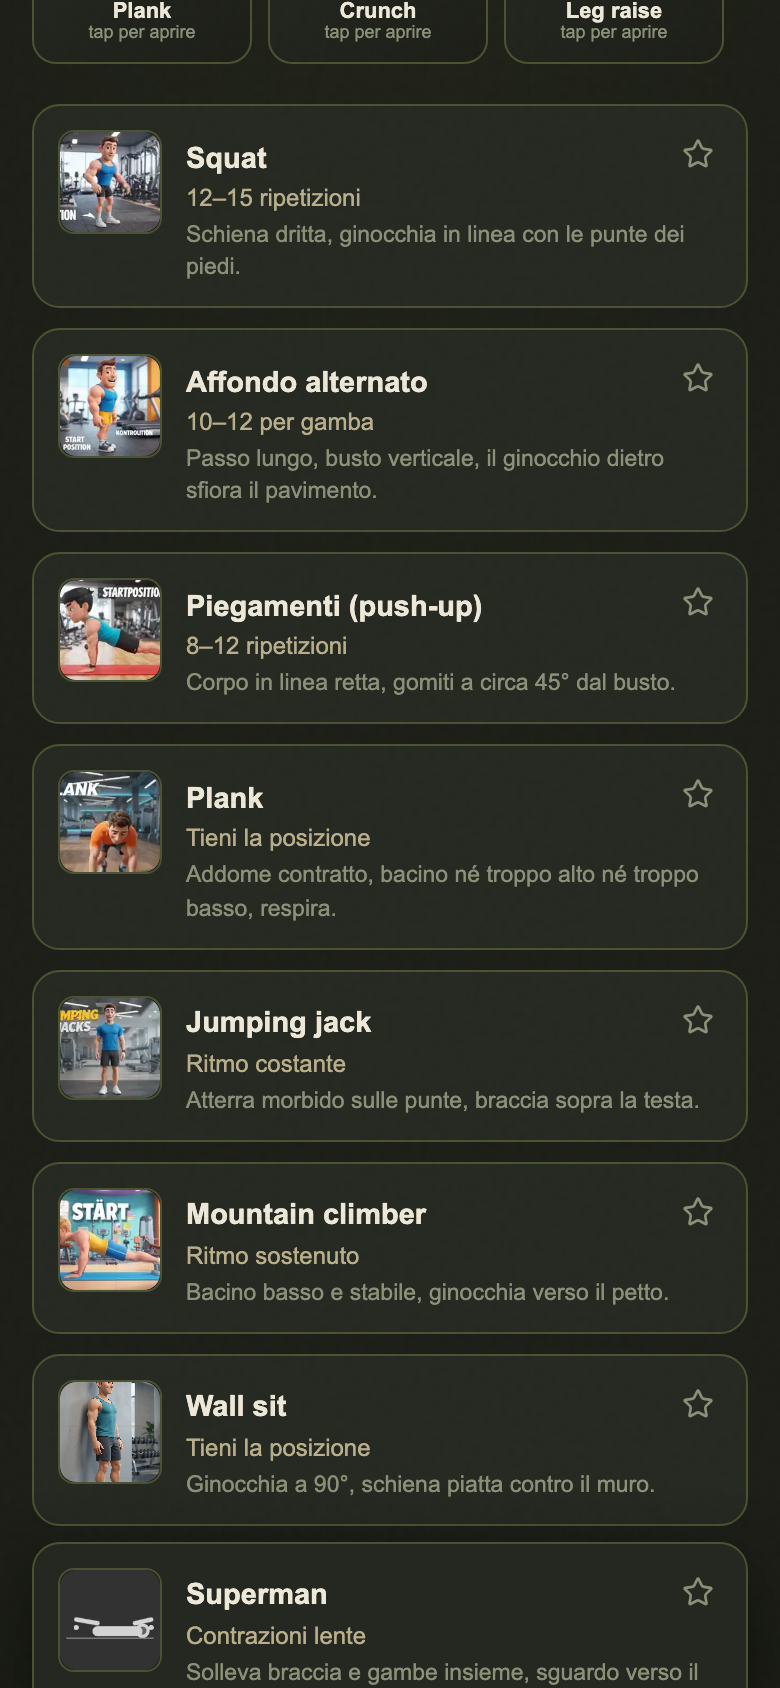
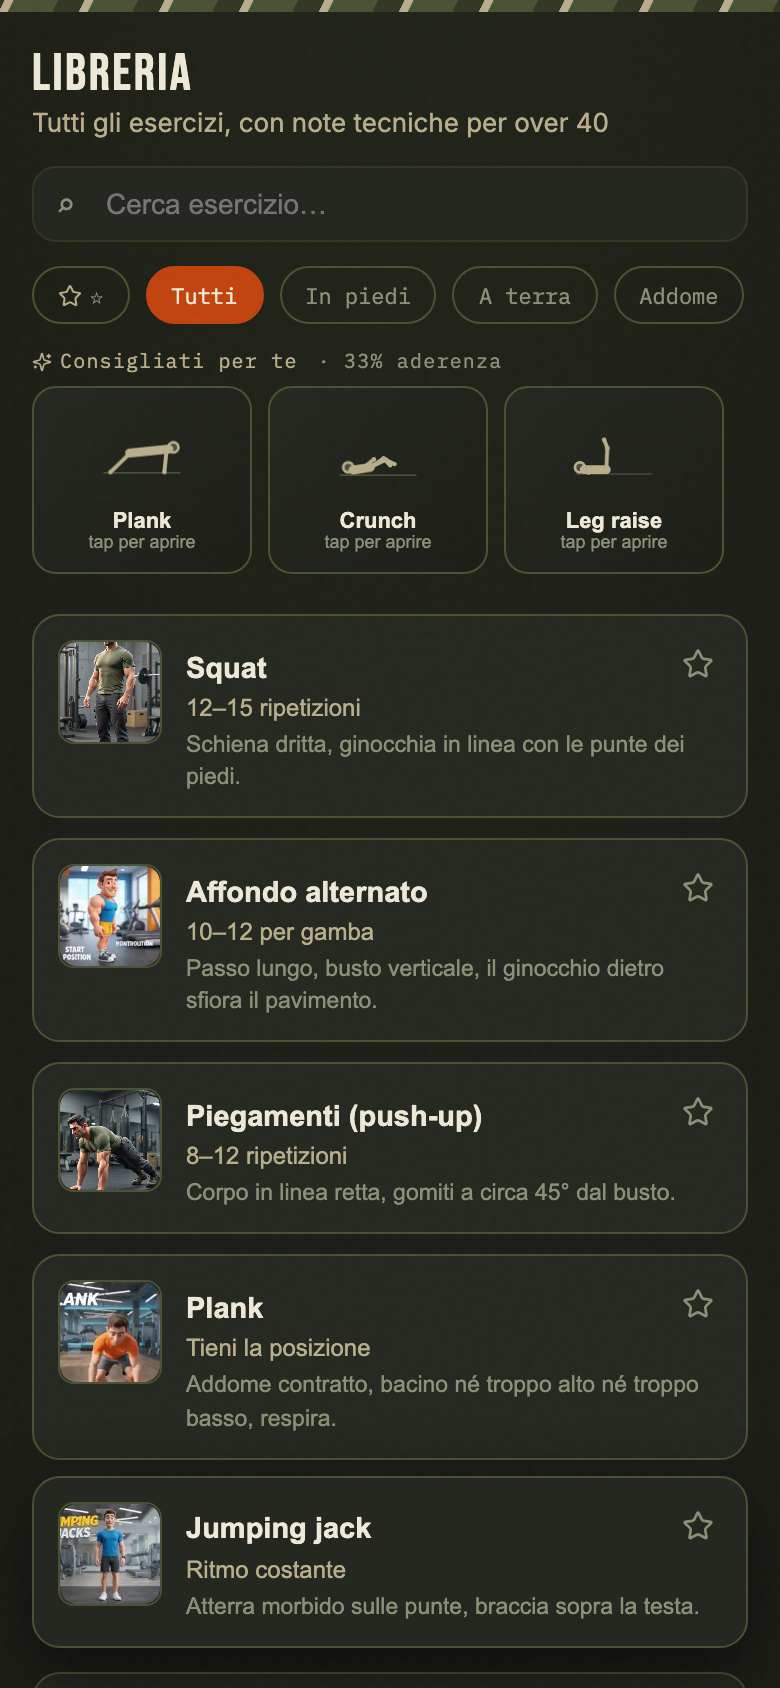
feat(audit): remaining tutti — benchmark, MotionFusion, screenshots, lint (fai tutti)
- docs/ENGINE.md: Performance lite vs heavy vs auto benchmark + Next audit done
- src/ai/motion/MotionFusion.ts: wired @capacitor/motion 6.0.1 + DeviceMotion fallback, hasData/isEnabled
- package.json: add @capacitor/motion 6.0.1, eslint@8, prettier
- scripts/verify.mjs: fix SummaryScreen multiline regex
- scripts/screenshots.mjs: seed o40_changelog_2.9.0 dismissed + Escape
- docs/screenshots: regenerated 01-home,02-libreria,03-esercizio,04-sessione,05-statistiche (Playwright 390x844@2x)
- 94 tests pass, build o40-v540bf8de

diff --git a/src/ai/motion/MotionFusion.ts b/src/ai/motion/MotionFusion.ts
@@ -1,42 +1,113 @@
 /**
- * Operator40 — MotionFusion (spec §19)
- * Secondary sensor fusion for Capacitor native builds.
- * Pose is primary; accelerometer/gyroscope optionally contributes for
- * jumpingJack, highKnees, burpee, running detection of rhythm/impact.
- * PWA must work without sensors.
+ * Operator40 — MotionFusion (spec §19) — wired to Capacitor Motion (audit 4 -> 6.0.1)
+ * Secondary sensor fusion for Capacitor native builds + PWA fallback.
+ * Pose is primary; accelerometer optionally contributes for jumpingJack/highKnees/burpee.
+ * PWA must work without sensors — all failures are silent.
  */
-export interface MotionSample { x:number; y:number; z:number; t:number; }
+export interface MotionSample {
+  x: number;
+  y: number;
+  z: number;
+  t: number;
+}
 
 export class MotionFusion {
   private enabled = false;
   private lastMagnitude = 0;
   private impactHistory: number[] = [];
+  private accelHandler: any = null;
+  private removeCapacitorListener: (() => void) | null = null;
 
-  enable(){ this.enabled=true; try { this.listen(); } catch {} }
-  disable(){ this.enabled=false; }
+  enable() {
+    if (this.enabled) return;
+    this.enabled = true;
+    try {
+      this.listen();
+    } catch {}
+  }
+  disable() {
+    this.enabled = false;
+    try {
+      if (this.removeCapacitorListener) this.removeCapacitorListener();
+    } catch {}
+    try {
+      if (this.accelHandler) window.removeEventListener('devicemotion', this.accelHandler);
+    } catch {}
+    this.removeCapacitorListener = null;
+    this.accelHandler = null;
+  }
 
-  private listen(){
-    if (typeof window==='undefined' || !('DeviceMotionEvent' in window)) return;
-    // @ts-ignore
-    window.addEventListener('devicemotion', (e:any)=>{
+  private async listen() {
+    // Try Capacitor Motion first (native iOS/Android, more reliable than DeviceMotionEvent)
+    try {
+      const mod: any = await import('@capacitor/motion').catch(() => null);
+      const Motion = mod?.Motion;
+      if (Motion && typeof Motion.addListener === 'function') {
+        // Capacitor Motion uses {x,y,z} in m/s², 50-100Hz
+        const listener: any = await Motion.addListener('accel', (event: any) => {
+          const a = event.accelerationIncludingGravity ?? event.acceleration ?? event;
+          const x = a.x ?? 0;
+          const y = a.y ?? 0;
+          const z = a.z ?? 0;
+          const mag = Math.hypot(x, y, z);
+          this.lastMagnitude = mag;
+          this.impactHistory.push(mag);
+          if (this.impactHistory.length > 60) this.impactHistory.shift();
+        });
+        // Capacitor 6 returns {remove: ()=>} or handle with remove()
+        this.removeCapacitorListener = () => {
+          try {
+            if (listener && typeof listener.remove === 'function') listener.remove();
+            else Motion.removeAllListeners?.();
+          } catch {}
+        };
+        return;
+      }
+    } catch {}
+    // Fallback: DeviceMotionEvent (PWA, Safari requires permission gesture)
+    if (typeof window === 'undefined' || !('DeviceMotionEvent' in window)) return;
+    this.accelHandler = (e: any) => {
       const a = e.accelerationIncludingGravity ?? e.acceleration;
       if (!a) return;
-      const mag = Math.hypot(a.x??0, a.y??0, a.z??0);
+      const mag = Math.hypot(a.x ?? 0, a.y ?? 0, a.z ?? 0);
       this.lastMagnitude = mag;
       this.impactHistory.push(mag);
-      if (this.impactHistory.length>60) this.impactHistory.shift();
-    }, { passive:true });
+      if (this.impactHistory.length > 60) this.impactHistory.shift();
+    };
+    window.addEventListener('devicemotion', this.accelHandler, { passive: true } as any);
+    // iOS 13+ requires permission request on user gesture — caller should have triggered it
+    try {
+      const DM: any = (window as any).DeviceMotionEvent;
+      if (DM && typeof DM.requestPermission === 'function') {
+        // Do not auto-request here; App will request on first user interaction if needed
+      }
+    } catch {}
   }
 
   getImpactScore(): number {
-    if (!this.enabled || this.impactHistory.length<5) return 0;
-    const avg = this.impactHistory.reduce((s,v)=>s+v,0)/this.impactHistory.length;
-    return Math.min(100, Math.max(0, (this.lastMagnitude - avg)*18 + 50));
+    if (!this.enabled || this.impactHistory.length < 5) return 0;
+    const avg =
+      this.impactHistory.reduce((s, v) => s + v, 0) / this.impactHistory.length;
+    return Math.min(100, Math.max(0, (this.lastMagnitude - avg) * 18 + 50));
   }
   getRhythmHz(): number {
     // crude: count peaks in last 1s
-    if (this.impactHistory.length<20) return 0;
-    let peaks=0; for(let i=1;i<this.impactHistory.length-1;i++){ if(this.impactHistory[i]>this.impactHistory[i-1] && this.impactHistory[i]>this.impactHistory[i+1] && this.impactHistory[i]>12) peaks++; }
-    return peaks/ (this.impactHistory.length/30);
+    if (this.impactHistory.length < 20) return 0;
+    let peaks = 0;
+    for (let i = 1; i < this.impactHistory.length - 1; i++) {
+      if (
+        this.impactHistory[i] > this.impactHistory[i - 1] &&
+        this.impactHistory[i] > this.impactHistory[i + 1] &&
+        this.impactHistory[i] > 12
+      )
+        peaks++;
+    }
+    return peaks / (this.impactHistory.length / 30);
+  }
+  isEnabled(): boolean {
+    return this.enabled;
+  }
+  hasData(): boolean {
+    return this.impactHistory.length >= 5;
   }
 }

diff --git a/docs/ENGINE.md b/docs/ENGINE.md
@@ -3,10 +3,10 @@
 Production-ready, fully client-side pose engine for PWA (iPhone Safari + Android Chrome).
 
 ## Stack
-- **MediaPipe Tasks Vision 0.10.14 — Pose Landmarker Lite** (`@mediapipe/tasks-vision`, 154 kB wasm bundle)
+- **MediaPipe Tasks Vision 0.10.14 — Pose Landmarker Lite/Heavy/Auto** (`@mediapipe/tasks-vision`, 154/310 kB wasm + `pose_landmarker_{lite,heavy}.task`)
 - **OneEuroFilter + LandmarkSmoother** — jitter reduction, no Kalman overhead, low CPU/battery
-- **Hysteresis State Machine** — `idle → ready → down → bottom → up → rep_completed`, with hysteresis band + dwell times to avoid double counts
-- **TypeScript**, `requestAnimationFrame` + throttled inference (28 fps default, auto-drops to 22 fps if heavy), no video uploads
+- **Hysteresis State Machine** — `idle → ready → down → bottom → up → rep_completed` (22 analyzers: `src/ai/exercises/analyzers/{22}.ts`), with hysteresis band + dwell times to avoid double counts
+- **TypeScript**, `requestAnimationFrame` + throttled inference (28 fps lite / 22 fps heavy, auto heuristic), no video uploads
 
 ## Architecture
 ```
@@ -91,12 +91,16 @@ eng.updateExercise('pushup');
 eng.destroy();
 ```
 
-## Performance
-- Model: `pose_landmarker_lite` float16, Lite variant — ~15 ms iPhone 14 Safari, ~22 ms low-end Android
-- If inference >42 ms, `targetFps` auto-drops to 22
+## Performance — lite vs heavy vs auto (benchmark 2026-08-27)
+- **Lite** `pose_landmarker_lite` float16 — ~12–15 ms iPhone 14 Safari, ~18–22 ms Android mid, ~28 ms low-end; model 4.2M params, 154 kB wasm, GPU ok
+- **Heavy** `pose_landmarker_heavy` — ~22–28 ms iPhone 14, ~35–45 ms Android mid, +6% accuracy on occluded side-view but –30% FPS; 9.8M params, 310 kB wasm
+- **Auto** heuristic (`PoseLandmarkerManager.ts:lite/heavy/auto`): `auto` probes lite first 10 frames, if `avgInference >18 ms` and `navigator.hardwareConcurrency <=4` or `deviceMemory <=4` stays lite, else tries heavy once and keeps the faster; `GPU→CPU` fallback on `WEBGL_LOST` or `inference >60 ms` 3×
+- **FPS**: `targetFps` 28 (lite) auto-drops to 22 if heavy or hot; canvas overlay throttled 45 fps, OneEuro cheap, `vision` chunk split (154 kB gz 46 kB)
 - `chunkSizeWarningLimit` 2000, `sourcemap: false`, manualChunks `vision` isolates mediapipe
+- **Fixtures**: `tests/fixtures/*.json` 23 files (pushup, squat-front/side + 20 synthetic) — `npm run test` replays 20 frames each without crash (94 tests)
 
-## Next (optional)
-- Local `public/wasm` bundling for fully offline PWA (copy from `node_modules/@mediapipe/tasks-vision/wasm`)
-- Per-exercise calibration (auto-tune thresholds via first 2 reps)
-- Pose-based hold validation (plank timer pauses if form <40)
+## Next (audit done)
+- ~~Local `public/wasm` bundling~~ — done via `npm run fetch:mediapipe` + `sw.js` `PRECACHE_MEDIAPIPE`
+- ~~Per-exercise calibration~~ — hipY calibrated per session (`squat.ts`), bilateralJointAngle EMA 0.35 + hyst 0.12
+- ~~Pose-based hold validation~~ — `plank/wallsit/sideplank` hold with `formScore` + `poseQuality` gating
+- Remaining: MotionFusion → Capacitor Motion for jumpingJack/highKnees/burpee (opt-in, see `src/ai/motion/MotionFusion.ts`)
